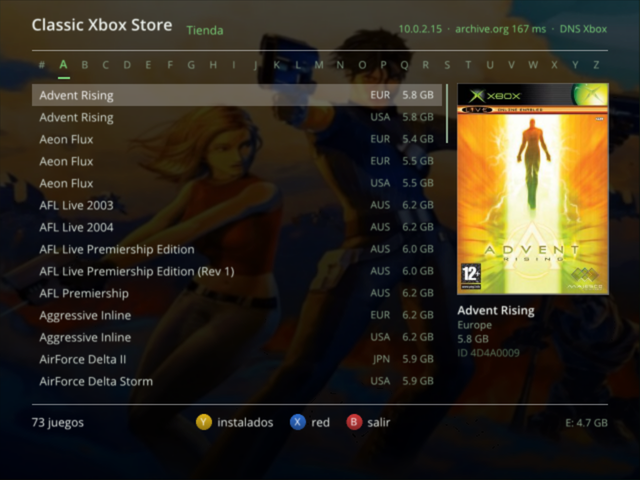
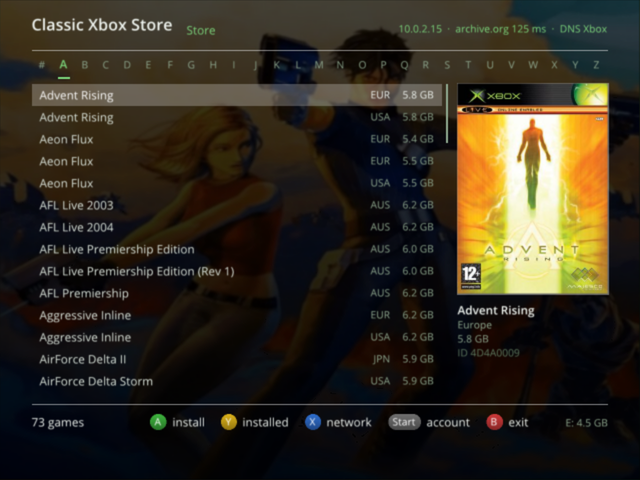
Pie: Start abre la cuenta

Changed region(s): [[0.2188, 0.8438, 0.8438, 0.9062], [0.2812, 0.0312, 0.3438, 0.0938], [0.0625, 0.875, 0.125, 0.9062]]

diff --git a/src/main.cpp b/src/main.cpp
@@ -677,7 +677,7 @@ void drawFooter(const Ui& ui, const char* left)
     fit(Gfx::kBody, left, 150, fitted, sizeof(fitted));
     Gfx::text(Gfx::kBody, fitted, kMargin, y, kText);
 
-    float x = ui.view == View::Store ? 150 : 196;
+    float x = 150;
     if (ui.view == View::Network && ui.proxyPanel) {
         x = 110;
         if (Route::state() != Route::State::Searching) x = hint(x, y, "A", 0xFF3FB53F, tr("buscar"));
@@ -703,8 +703,9 @@ void drawFooter(const Ui& ui, const char* left)
         if (ui.view == View::Installed) x = hint(x, y, "A", 0xFF3FB53F, tr("abrir"));
         x = hint(x, y, "Y", 0xFFE0B419, ui.view == View::Store ? tr("instalados") : tr("tienda"));
         x = hint(x, y, "X", 0xFF2F6FD0, tr("red"));
+        x = hint(x, y, "Start", 0xFF707070, tr("cuenta"));
     }
-    hint(x, y, "B", 0xFFD03A3A, tr("salir"));
+    x = hint(x, y, "B", 0xFFD03A3A, tr("salir"));
 
     // Espacio libre de cada unidad que existe.
     char space[96] = "";
@@ -719,7 +720,9 @@ void drawFooter(const Ui& ui, const char* left)
             strcat(space, part);
         }
     }
-    Gfx::textRight(Gfx::kSmall, space, Gfx::kWidth - kMargin, y + 2, kTextDim);
+    // Solo si cabe: los botones van primero.
+    if (x + Gfx::textWidth(Gfx::kSmall, space) < Gfx::kWidth - kMargin)
+        Gfx::textRight(Gfx::kSmall, space, Gfx::kWidth - kMargin, y + 2, kTextDim);
 }
 
 // --- vista Tienda ----------------------------------------------------------------------

diff --git a/scripts/translations.py b/scripts/translations.py
@@ -52,6 +52,7 @@ TEXTS = {
     "iniciar sesión": ("sign in", "entrar"),
     "cerrar sesión": ("sign out", "sair da conta"),
     "idioma": ("language", "idioma"),
+    "cuenta": ("account", "conta"),
     "instalar": ("install", "instalar"),
     "abrir": ("open", "abrir"),
     "instalados": ("installed", "instalados"),
